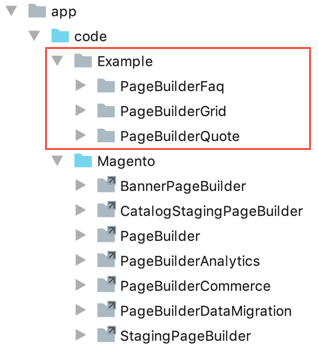
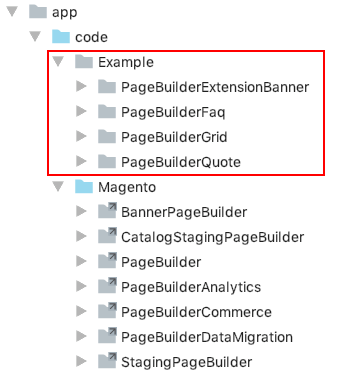
MAGEDOC-3644: Post GA release docs cleanup
Added link to extension banner module in examples repo

Changed region(s): [[0.0849, 0.0, 0.9906, 1.0], [0.1981, 0.8621, 0.2547, 0.9195]]

diff --git a/docs/getting-started/install-pagebuilder-examples.md b/docs/getting-started/install-pagebuilder-examples.md
@@ -8,11 +8,12 @@ You can find the Page Builder examples used in this documentation on GitHub in t
 
 ## Custom content type modules
 
-To learn by example, the [Example directory](https://github.com/magento-devdocs/pagebuilder-examples/tree/master/Example) on the repo provides the following custom content-type modules for you to download and install. Page Builder team members created these modules to serve as examples for learning. We will do our best to keep these updated and functioning with the latest releases of Page Builder. 
+The [Example directory](https://github.com/magento-devdocs/pagebuilder-examples/tree/master/Example) on the repo provides the following custom content-type modules for you to download and install. The Page Builder team members created these modules to serve as examples for learning. They are not fully tested or guaranteed to work perfectly. However, we will do our best to improve these examples and keep them updated with the latest releases of Page Builder. 
 
-- **[PageBuilderQuote](https://github.com/magento-devdocs/pagebuilder-examples/tree/master/Example/PageBuilderQuote)** — Original author: [Bruce Denham](https://github.com/bdenham). This module shows you how to use a simple content type to stylize quotations for things like customer testimonials. This is the completed module featured in the [content type tutorial](../create-custom-content-type/overview.md). Original author: Bruce Denham 
-- **[PageBuilderGrid](https://github.com/magento-devdocs/pagebuilder-examples/tree/master/Example/PageBuilderGrid)** — Original author: [Dave Macaulay](https://github.com/davemacaulay). This module shows you how to create a content type to rebuild the Magento Luma home page using a grid structure with grid items.
-- **[PageBuilderFaq](https://github.com/magento-devdocs/pagebuilder-examples/tree/master/Example/PageBuilderFaq)** — Original author: [Igor Melnikov](https://github.com/melnikovi). This module shows you how to create a content type for an FAQ page that uses an accordion for the questions and answers.
+- **[PageBuilderExtensionBanner](https://github.com/magento-devdocs/pagebuilder-examples/tree/master/Example/PageBuilderExtensionBanner)** — Create by [Bruce Denham](https://github.com/bdenham). This module shows you how to customize an existing content type: the Banner. This is the completed module featured in the [Extend a content type tutorial](../extend-existing-content-type/overview.md).
+- **[PageBuilderQuote](https://github.com/magento-devdocs/pagebuilder-examples/tree/master/Example/PageBuilderQuote)** — Create by [Bruce Denham](https://github.com/bdenham). This module shows you how to create a content type for a customer testimonial page. This is the completed Quote module featured in the [Create a content type tutorial](../create-custom-content-type/overview.md).
+- **[PageBuilderGrid](https://github.com/magento-devdocs/pagebuilder-examples/tree/master/Example/PageBuilderGrid)** — Created by [Dave Macaulay](https://github.com/davemacaulay). This module shows you how to create a content type that recreates the layout of the Magento Luma-themed home page using a grid structure with grid items.
+- **[PageBuilderFaq](https://github.com/magento-devdocs/pagebuilder-examples/tree/master/Example/PageBuilderFaq)** — Created by [Igor Melnikov](https://github.com/melnikovi). This module shows you how to create a content type for an FAQ page that uses an accordion for the questions and answers.
 
 ## Extension modules for existing content types
 
